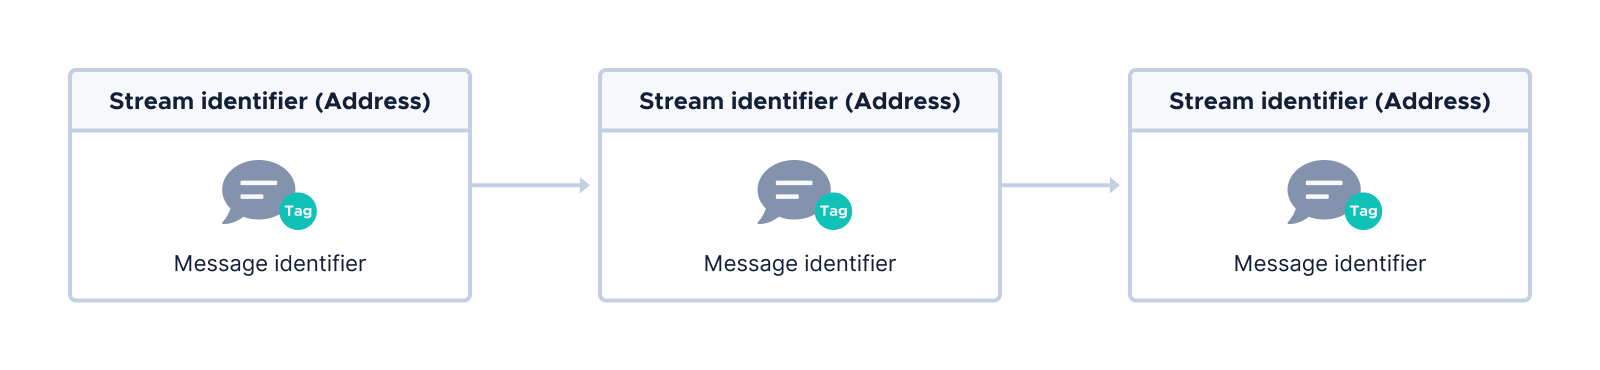
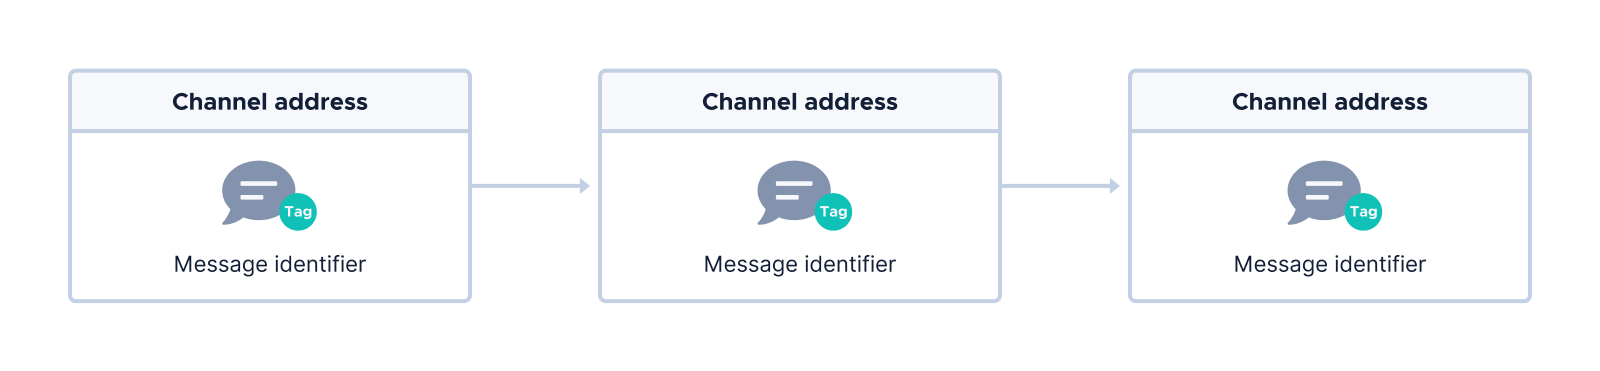
Add reviewers comments and new imagery

diff --git a/iota-streams/0.1/channels/how-channels-works.md b/iota-streams/0.1/channels/how-channels-works.md
@@ -2,90 +2,123 @@
 
 **This article explains the core concepts of Channels to help you understand how it works.**
 
-## Messages
+Channels is a protocol for publishing cryptographic messages on a communication channel.
 
-In Channels, messages are linked to one another by their [stream and message identifiers](../introduction/core-concepts.md).
+Messages can be published on any communication channel such as HTTP, using a URL. However, by default, Channels comes with an API for publishing messages on the [Tangle](root://getting-started/0.1/network/the-tangle.md), making them transparent and tamperproof.
 
-On the Tangle, the stream identifier is the address of a [transaction](root://getting-started/0.1/transactions/transactions.md), and the message identifier is the tag of the transaction. Together, these identifiers are called the link.
+On the Tangle, all messages in a channel are transactions with the same channel address in the `address` field and a different message identifier in the `tag` field.
 
 ![Header structure](../images/header-structure.png)
 
-To allow authors and subscribers to find messages on the same channel, the channel address is the same for all messages in a channel.
+Each channel has **one owner, called the [author](#author)**, but may have **many [subscribers](#subscribers)** who communicate asynchronously by publishing messages on the author's channel.
 
-To allow authors and subscribers to avoid reading the same message twice, the message identifier is different for each new message.
+Anyone in the channel can publish public messages for everyone to read and private messages for only authorized users to read.
 
-To read a message on a channel, authors and subscribers need both the channel address and the message identifier.
-
-### Message types
-
-Messages can be one of seven types, which have a specific purpose in the [workflow](../channels/design-the-workflow.md) of a Channels application.
-
-|**Message type**| **Description**| **Sent by**|
-|:-----------|:-----------|:---------------------------------------|
-|`Announce`| Publishes a new channel with information to allow subscribers to authenticate other messages on it | Authors|
-|`ChangeKey`| Generates a new Merkle tree of the same height as the original `Author` object and publishes information to allow subscribers to authenticate other messages on the channel, using the new Merkle root| Authors|
-|`Keyload`|Generates and publishes reusable session keys to allow subscribers to decrypt messages in `TaggedPacket` messages and `SignedPacket` messages|Authors|
-|`TaggedPacket`| Publishes encrypted or plain text messages on a channel|Authors and subscribers
-|`SignedPacket`|Publishes encrypted or plain text messages that include the a signature for authentication purposes| Authors|
-|`Subscribe`| Publishes the subscriber's NTRU public key on the channel so that the author can use it to generate a session key in the `Keyload` message| Subscribers
-|`Unsubscribe`| Publishes the subscriber's intent to unsubscribe from the channel to save the author the trouble of generating a session key for the subscriber|Subscribers
-
-## Roles
-
-In Channels, users can have one of the following roles:
-
-- [Author](#authors)
-- [Subscriber](#subscribers)
-
-Each channel has only one author, but may have many subscribers who all communicate asynchronously by publishing messages on a channel.
-
-Authors are the [owners of a channel](#how-channels-are-created) and prove their ownership by publishing signed messages that subscribers can authenticate.
-
-Both authors and subscribers can publish plain text and private payloads on the channel for each other to read. Anyone can read the plain text payloads, but only authorized users can read the private payloads.
-
-For example, if an author were an API service, that author may want all subscribers to be able to see a public alert about breaking changes. However, the author may also want to keep some messages private such as sensor data from a private endpoint. In this case, the author would send the breaking changes as plain text, but encrypt the sensor data in a private message payload.
+For example, if an author were an API service, that author may want all subscribers to be able to see a public alert about breaking changes. However, the author may also want to keep some messages private such as sensor data from a private endpoint. In this case, the author would send the breaking changes as plain text, but encrypt the sensor data in a private payload.
 
 ![API application example](../images/api-app-example.png)
 
-## How channels are created
+## Messages
 
-When you create an instance of the `Author` object, a new channel is created from a Merkle tree, whose root is the channel address.
+Each message has a type, depending on its content and how that content should be cryptographically processed. For example, an author's message may contain an encrypted payload as well as a signature. This content must be processed in a specific way that allows subscribers to decrypt it and authenticate the signature.
+
+### Message types
+
+Messages can be one of seven types, which can be created and published by users with a particular role.
+
+|**Message type**| **Description**| **Published by**|
+|:-----------|:-----------|:---------------------------------------|
+|![Announce](../images/announce.png)| Publishes a new channel with information to allow subscribers to authenticate other messages on it | Author|
+|![ChangeKey](../images/changekey.png)| Generates a new Merkle tree of the same height as the original `Author` object and publishes information to allow subscribers to authenticate other messages on the channel, using the new MSS public key| Author|
+|![Keyload](../images/keyload.png)|Publishes reusable session keys to allow subscribers to decrypt messages in `TaggedPacket` messages and `SignedPacket` messages|Author|
+|![TaggedPacket](../images/taggedpacket.png)| Publishes private or public payloads|Author and subscribers
+|![SignedPacket](../images/signedpacket.png)|Publishes a signed message that includes private or public payloads| Author|
+|![Subscribe](../images/subscribe.png)| Publishes the subscriber's NTRU public key on the channel so that the author can use it to generate a session key in the `Keyload` message| Subscribers
+|![Unsubscribe](../images/unsubscribe.png)| Publishes the subscriber's intent to unsubscribe from the channel to save the author the trouble of generating a session key for the subscriber|Subscribers
+
+## Author and subscriber states
+
+The author and subscribers have states, which are used to store the information they need to process messages.
+
+For both the author and subscribers, the state contains references to the messages that have already been processed as well as the cryptographic result of processing a message, which is called the spongos state. 
+
+A subscriber's state may also include:
+
+- A pre-shared key, which may be used to process `Keyload` messages
+- A private NTRU key, which may be used to process `Keyload` messages
+- The author's NTRU public key, which may be used when creating `Keyload` and `Subscribe` messages
+- The author's current [MSS public key](#author), which is used to authenticate signatures in signed messages
+
+An author's state may include:
+
+- Signature keys, which are used to prove ownership of the channel
+- A private NTRU key, which is used by subscribers to create `Subscribe` messages
+- The pre-shared or public NTRU keys of any trusted subscribers. These keys are used to create `Keyload` messages.
+
+The author must trust subscribers because their keys are used to encrypt the session key. If the subscribers were malicious, they could share the session key with anyone and expose all the private messages.
+
+![Subscriber state](../images/subscriber-state.png)
+
+![Author state](../images/author-state.png)
+
+## Processing messages
+
+Messages are processed according to their type, using a corresponding `wrap()` and `unwrap()` method.
+
+The `wrap()` method uses the author's or subscriber's state to process some data and add it to a message of a specific type.
+
+The `unwrap()` method uses the author's or subscriber's state to process a message.
+
+For example, when a subscriber processes a `Keyload` message, the `unwrap_keyload()` method uses the subscriber's state to decrypt the session key. Then, the result of processing the `Keyload` message would be added to the subscriber's spongos state, which can be used to decrypt payloads in future `TaggedPacket` and `SignedPacket` messages.
+
+## Author
+
+The author has the following roles in a channel:
+
+- Prove ownership of the channel by publishing signed messages
+- Publish plain text or encrypted messages on the channel
+- Allow authorized subscribers to decrypt messages
+
+To sign messages, the author uses a [Merkle signature scheme (MSS)](https://en.wikipedia.org/wiki/Merkle_signature_scheme) with [Winternitz one-time signatures](https://en.wikipedia.org/wiki/Hash-based_cryptography#One-time_signature_schemes).
+
+To encrypt messages, the author uses session keys, which are encrypted either with the subscribers' pre-shared key or with the subscribers' NTRU public keys.
+
+The author has the option of allowing subscribers to publish their NTRU keys in a `Subscribe` message. To do so, the author needs to be created with an NTRU key pair.
+
+When you create an instance of the `Author` object, an MSS is generated and the root is used as the author's MSS public key and the channel address.
 
 ```rust
 let mut author = Author::new("MYAUTHORSECRET", 3, true);
 ```
 
-Internally, authors use a [Merkle tree signature scheme (MSS)](https://en.wikipedia.org/wiki/Merkle_signature_scheme) to generate Winternitz [one-time signature](https://en.wikipedia.org/wiki/Hash-based_cryptography#One-time_signature_schemes) keys from the author's secret. The root of this Merkle tree is also called the MSS public key.
+The first argument is the author's secret, which is used to generate the author's signature keys (public and private keys).
+
+The second argument is the height of the Merkle tree, which is used to define how many signature keys the author has. The MSS is a many-time signature scheme, meaning it can produce only a limited number of signature keys. The number of signature keys that an author has depends on the height in this method. To calculate the number of signature keys an author has, use this formula: Number of signature keys = 2<sup>height</sup>. For example a height of 3 would result in 8 signature keys.
 
 ![Example of a Merkle tree](../images/merkle-tree-channel.png)
 
-By generating a Merkle tree, the author can prove ownership of the channel by doing the following:
+The third argument defines whether the author has an NTRU key pair.
 
-- Signing each channel message with a different signature key that belongs to one of the public key leaves
-- Publishing enough of the Merkle tree in the signed message to allow subscribers to validate the signature
+## Subscribers
 
-The number of signature keys that an author has depends on the height of the Merkle tree, which is the second argument of the `new()` method.
+Subscribers have the following roles:
 
-To calculate the number of signature keys an author has, use this formula: Number of signature keys = 2<sup>height</sup>.
+- Authenticate any signatures in signed messages to verify that they were sent by the author
+- Publish plain text or encrypted messages on the channel
 
-For example a height of 3 would result in 8 signature keys.
+To authenticate signatures, subscribers use the author's MSS public key from either an `Announce` message of a `ChangeKey` message.
 
-## Author and subscriber states
+To encrypt messages, subscribers use the session keys, which are published in the `Keyload` messages.
 
-Authors and subscribers each have a state, which is used to store the information they need to read, decrypt, encrypt and authenticate messages.
+When you create an instance of the `Subscriber` object, you specify the secret and whether to generate an NTRU key pair. The secret is used to generate the NTRU key pairs.
 
-A subscriber's state may include pre-shared or NTRU keys as well as the current public keys (MSS and NTRU) of the author of a channel.
-
-The pre-shared or NTRU keys are used to send `Keyload` messages, which contain information that others need to decrypt private payloads.
-
-The author's MSS public key is used to authenticate signed messages.
-
-An author's state may include signature keys for the channel, personal NTRU keys, and the pre-shared or NTRU public keys of any subscribers.
-
-For example, when a subscriber processes an `Announce` message, the author's information is saved internally in the subscriber's state. This way, the subscriber can authenticate `SignedPacket` messages.
-
-image of state
+```rust
+let mut subscriber = Subscriber::new("MYSUBSCRIBERSECRET", true);
+```
 
 ## Next step
 
 [Design your own messaging workflow](../channels/design-the-workflow.md).
+
+
+

diff --git a/iota-streams/0.1/channels/design-the-workflow.md b/iota-streams/0.1/channels/design-the-workflow.md
@@ -10,7 +10,7 @@ To create a fluid and natural experience, it is important to think about all the
 
 In a channel, messages can reference the message identifier of any other [message type](../channels/how-channels-works.md#message-types).
 
-These references allow authors and subscribers to make sure that the information in their [state](../channels/how-channels-works.md#author-and-subscriber-states) came from the correct message.
+These references allow the author and subscribers to make sure that the information in their [state](../channels/how-channels-works.md#author-and-subscriber-states) came from the correct message.
 
 This section guides you through some best practices for creating messaging workflows.
 
@@ -28,9 +28,9 @@ Subscribers can then use the information in their key stores to authenticate fut
 
 ### Sending encrypted messages
 
-To control read access to private payloads on a channel, authors generate an encrypted session key that authorized subscribers can use to decrypt the private messages. Then, authors publish the session key to the channel in a `Keyload` message.
+To control read access to private payloads on a channel, the author generates an encrypted session key from the public keys of authorized subscribers. Then, the author publishes the session key to the channel in a `Keyload` message. This way, only authorized subscribers can decrypt the session key and use it to decrypt the author's private payloads.
 
-Authors have two choices of workflows to generate the session key for authorized subscribers.
+The author has two choices of workflow to generate the session key for authorized subscribers.
 
 #### Accepting subscribers' requests for read access
 
@@ -46,21 +46,23 @@ The author can then publish encrypted messages in either `SignedPacket` or `Tagg
 
 #### Pre-selecting authorized subscribers 
 
-This workflow does not include `Subscribe` messages because before announcing a channel, authors decide which subscribers should be allowed access to private message payloads. These subscribers may come from an external source such as a list of members' email addresses in a database.
+In this workflow, the author decide which subscribers should be allowed access to private payloads before announcing a channel. These subscribers may come from an external source such as a list of members' email addresses in a database.
 
-Authors may choose this option to avoid the overhead of managing `Subscribe` messages.
+The author may choose this option to avoid the overhead of managing `Subscribe` messages.
 
-To set up subscribers before announcing the channel, authors can choose them in advance and either establish a pre-shared key or request their NTRU keys.
+To set up subscribers before announcing the channel, the author can choose them in advance and either establish a pre-shared key or request their NTRU keys.
 
-Authors can then later use these keys to encrypt the session key.
+The author can then later use these keys to create a `Keyload` message.
 
 ### Changing the signature keys
 
-If authors run out of signature keys, they can generate a new set by publishing a `ChangeKey` message. This way, authors can continue signing messages on the same channel.
+If the author runs out of signature keys, a new set can be generated by publishing a `ChangeKey` message. This way, the author can continue signing messages on the same channel.
 
-The logic of when to change signature keys is dependent on your app, however you need at least one key pair left in your Merkle tree to be able to sign the `ChangeKey` message and prove your ownership of the channel.
+:::info:
+The author needs at least one key pair left in the Merkle tree to be able to sign the `ChangeKey` message and prove your ownership of the channel.
+:::
 
-The `ChangeKey` message should reference either an `Announce` message or a previous `ChangeKey` message so that subscribers can authenticate the current signature against any previous signatures.
+The `ChangeKey` message should reference either an `Announce` message or a previous `ChangeKey` message so that subscribers can authenticate the author's current public key against the previous one.
 
 To authenticate future messaging using the author's latest public key, subscribers must use the `unwrap_change_key()` method to update their states.
 
@@ -70,7 +72,7 @@ If subscribers no longer plan on reading encrypted messages on the channel, they
 
 `Unsubscribe` messages must always reference the corresponding `Subscribe` message because it contains the information that the author needs to verify message.
 
-To remove the subscribers' keys from future `Keyload` messages, the author must use the `unwrap_unsubscribe()` method.
+To remove the subscribers' keys from future `Keyload` messages, the author must use the `unwrap_unsubscribe()` method to remove their keys from the state.
 
 ## Next steps
 

diff --git a/iota-streams/0.1/channels/build-a-simple-app.md b/iota-streams/0.1/channels/build-a-simple-app.md
@@ -21,7 +21,7 @@ If you're new to Rust, or don't understand something in the code, the following 
 - [Rust Book](https://doc.rust-lang.org/book/)
 - [Rust documentation](https://doc.rust-lang.org/std/) (you can also open the documentation offline with the `rustup doc` command)
 - IOTA Streams API documentation (use the `cargo doc --open` command to open the API documentation in your default web browser)
-- [Types of Channels message](../introduction/core-concepts.md#message-types)
+- [Types of Channels message](../channels/how-channels-works.md#message-types)
 
 ## Step 1. Create your project
 
@@ -49,9 +49,9 @@ In this step, you use Cargo to create a new project and install the dependencies
 
 Now you have all the dependencies, you're ready to start coding.
 
-## Step 2. Publish the API channel
+## Step 2. Announce the API channel
 
-In this step, you write the function that will create and publish a new channel on the IOTA Devnet. This channel will be the one that your API author will use to publish messages for subscribers to read.
+In this step, you write a function that publishes a new channel on the IOTA Devnet. This channel is the one on which your API author will publish messages for subscribers to read.
 
 1. In the `src` directory, create a new directory called `author` and create two files inside it: `mod.rs` and `announce.rs`
 
@@ -70,19 +70,23 @@ In this step, you write the function that will create and publish a new channel 
     }
     ```
 
-    As well as the author, this function takes a special type of object that implements the [`Transport`](https://github.com/iotaledger/streams/blob/master/iota-streams-app/src/transport/tangle/client.rs) trait for sending and receiving messages.
+    As well as the author, this function takes a generic type that implements the [`Transport`](https://github.com/iotaledger/streams/blob/master/iota-streams-app/src/transport/tangle/client.rs) trait for sending and receiving messages.
 
     In Channels, the IOTA client library is extended to implement this trait, which means that we can use it to create a [bundle](root://getting-started/0.1/transactions/bundles.md) from the messages and send them to a node.
 
     :::info:
-    In Rust, it's best practice to follow the convention of using underscores to separate words in the names of functions and variables.
+    In Rust, it's best practice to follow the convention of using underscores to separate words (snake_case) in the names of functions and variables.
     :::   
 
-4. Create an [`Announce`](../introduction/core-concepts.md#message-types) message, which you can later use to publish the channel on the Tangle
+4. Create an [`Announce`](../channels/how-channels-works.md#message-types) message, which you can later use to publish the channel on the Tangle
 
     ```rust
     let announcement = author.announce()?;
     ```
+
+    :::info:
+    The [`?`](https://doc.rust-lang.org/edition-guide/rust-2018/error-handling-and-panics/the-question-mark-operator-for-easier-error-handling.html) operator is for handling any errors that may be produced while creating the message.
+    :::
 
 5. Get the message identifier of your `Announce` message, and use the `to_string()` method to convert it from trits to trytes
 
@@ -156,7 +160,7 @@ Now you can use your `author` object to send messages on your channel.
 
 ## Step 3. Publish a public message about breaking changes
 
-In this step, you write a function that will create and publish a `SignedPacket` message on your channel. This message will include a plain text message that anyone can read.
+In this step, you write a function that creates and publishes a `SignedPacket` message on your channel.
 
 1. In the `author` directory, create a new file called `send_message.rs`
 
@@ -423,7 +427,7 @@ To get started you need [Git](https://git-scm.com/book/en/v2/Getting-Started-Ins
     ```
 
     :::info:
-    Authors should publish only one instance of a channel.
+    The author should publish only one instance of a channel.
 
     Otherwise, subscribers will not know which channel to use.
     :::

diff --git a/iota-streams/0.1/introduction/how-streams-works.md b/iota-streams/0.1/introduction/how-streams-works.md
@@ -1,0 +1,40 @@
+# How Streams works
+
+**This article explains the core concepts of Streams. Before you start working with Streams, you should get to know the core concepts to understand how applications are built.**
+
+## Application structure
+
+A Streams application is a message-oriented protocol, where each message consists of a header and application-specific content.
+
+Messages are written in the [Protobuf3](#protobuf3-messaging) syntax and are processed according to Protobuf3 rules that define both the application's message types and the rules for cryptographic processing.
+
+To publish messages in Streams applications, you use the `transport` module, which includes a Tangle-specific module for converting messages into [bundles](root://getting-started/0.1/transactions/bundles.md) and converting bundles back into messages.
+
+To allow others to find messages in a stream, each one has a header, which includes the following identifable information:
+
+- **Application identifier:** An identifier for the instance of the application. This identifier is the same for each message in the same application instance.
+- **Message identifier:** An identifier for the message in the application instance. This identifier should be different for each new message in the same application instance.
+- **Streams version:** The Streams version that was used to create and encode the message
+- **Streams message type:** The type of message content. This type gives the receiver an indication of how to process it.
+
+![Message structure](../images/message-structure.png)
+
+## Protobuf3 messaging
+
+Protobuf3 is a cryptographic message definition language that we built for encoding and decoding Streams messages.
+
+Protobuf3 builds on the idea of [Protocol Buffers](https://en.wikipedia.org/wiki/Protocol_Buffers) by adding keywords that indicate how a certain message field should be processed. For example, the `mssig` keyword indicates that the content contains a signature that must be generated or verified.
+
+Protobuf3 is highly extensible so that it's easy to add new keywords such as those for Diffie-Hellman key exchange.
+
+## Cryptography
+
+Cryptography is what makes Streams so powerful. Built into the framework are cryptographic tools for the following:
+
+- Binary/ternary conversions
+- Streams sponge-based constructions (Spongos)
+- Spongos pseudo-random permutations (PRP): Troika, Keccak
+- Spongos-based pseudo-random number generator (PRNG) and hashing
+- [Merkle tree signature scheme (MSS)](https://en.wikipedia.org/wiki/Merkle_signature_scheme) for Winternitz one-time-signatures
+- [NTRU key pairs](https://en.wikipedia.org/wiki/NTRU)
+

diff --git a/iota-streams/0.1/channels/troubleshooting.md b/iota-streams/0.1/channels/troubleshooting.md
@@ -4,7 +4,7 @@
 
 ## More than one message found
 
-This error message is sent by the Channels application.
+This error message is produced by the `iota_client::Client` object.
 
 You may see this error when trying to use the `Client` object to receive a message on a channel when other copies of that message exist.
 
@@ -16,7 +16,7 @@ To resolve this error, you could do one of the following:
 
 ## Provided hashes are not valid: []
 
-This error message is sent by the IOTA node that the `Client` object is connected to.
+This error message is produced by the IOTA node that the `iota_client::Client` object is connected to.
 
 You may see this error if the Channels messages are sent in an inconsistent bundle.
 
@@ -26,7 +26,7 @@ If you see this message please reach out to us in the #streams-discussion on [Di
 
 ## No Author's MSS public key found
 
-This error message is sent by the Channels application.
+This error message is produced by the Channels application.
 
 You may see this error when trying to unwrap a message that relies on information in an `Announce` message.
 

diff --git a/iota-streams/home.md b/iota-streams/home.md
@@ -3,7 +3,7 @@
 [Streams overview](/0.1/introduction/overview.md)
 ## Learn what the Streams framework is and what you can build with it
 
-[Core concepts](/0.1/introduction/core-concepts.md)
+[How Streams works](/0.1/introduction/how-streams-works.md)
 ## Dive into the technical details of Streams
 
 [Get started with Channels](0.1/channels/why-build-channels.md)

diff --git a/iota-streams/0.1/doc-index.md b/iota-streams/0.1/doc-index.md
@@ -2,7 +2,7 @@
 
 [Introduction/Streams overview](/introduction/overview.md)
 
-[Introduction/Core concepts](/introduction/core-concepts.md)
+[Introduction/How Streams works](/introduction/how-streams-works.md)
 
 [Channels/Why build Channels applications](/channels/why-build-channels.md)
 
